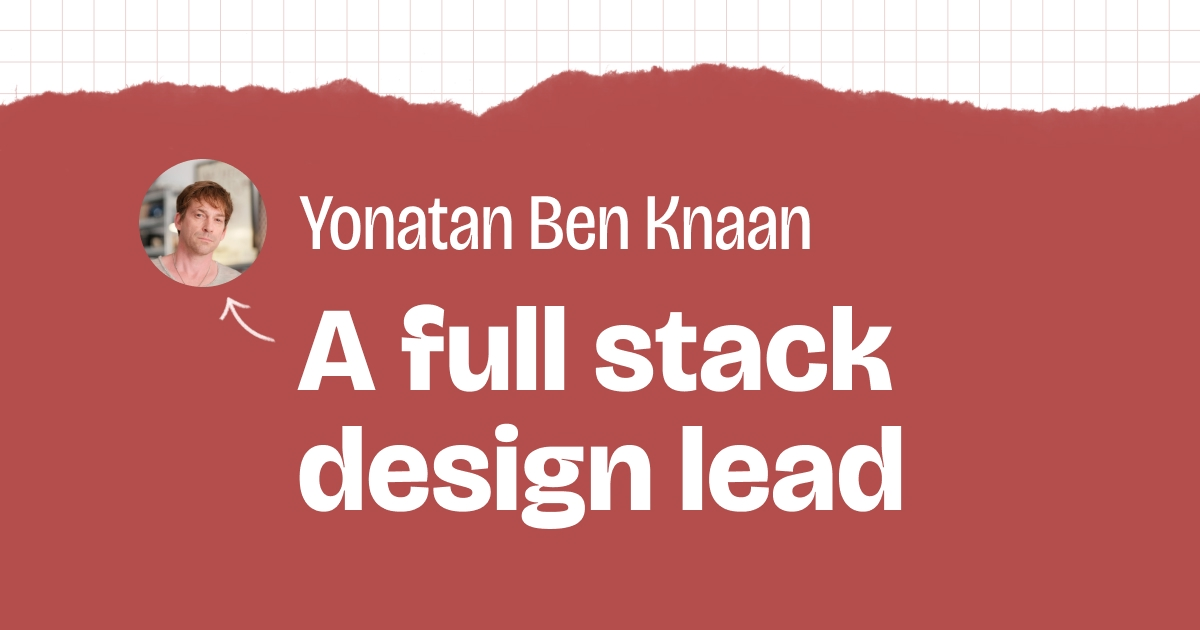
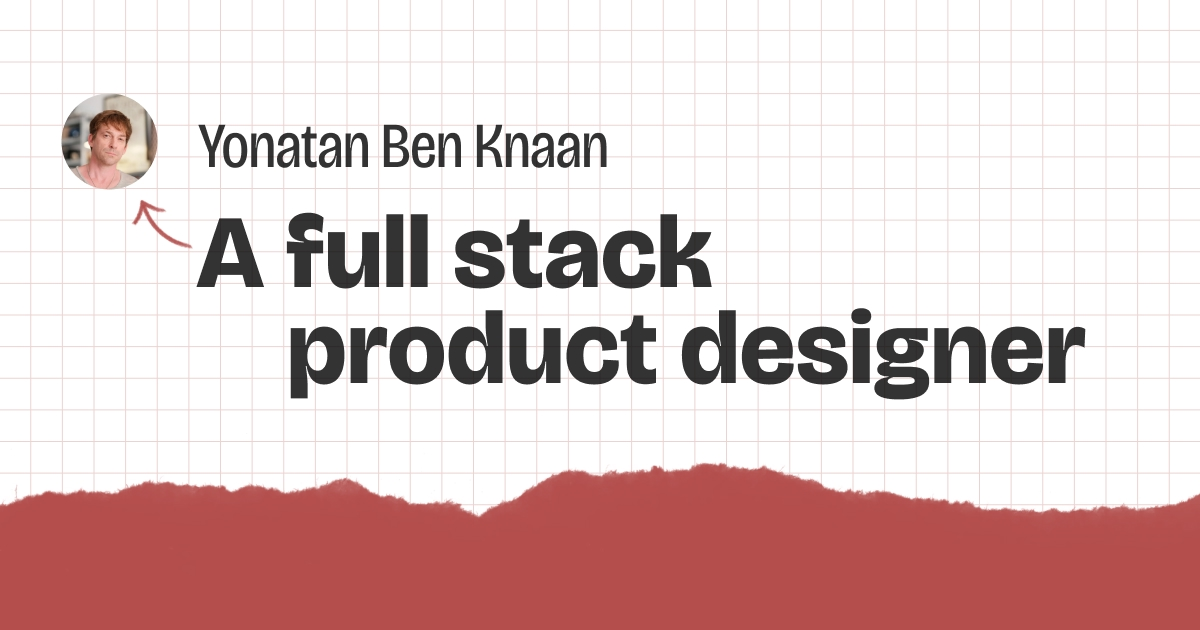
improve: Better meta tags and new social share image. at nuxt.config.ts, page-meta-tags.ts & yonatanbk-Social.jpg

diff --git a/plugins/page-meta-tags.ts b/plugins/page-meta-tags.ts
@@ -12,7 +12,7 @@ export default defineNuxtPlugin(() => {
 		metaSiteName = config.public.siteName,
 		// metaArticleAuthor = undefined,
 		metaTitleData = undefined,
-		metaDesc = `A portfolio site by ${config.public.siteOwnerName} - a full stack designer who leads design initiatives in Startups and Orgs`,
+		metaDesc = `A portfolio site by ${config.public.siteOwnerName} - a full stack product designer who leads design initiatives in startups and orgs`,
 		metaImg = '/images/yonatanbk-social.jpg',
 		metaImgAlt = 'Social cover image for this site',
 		metaOgType = 'website' as
@@ -43,10 +43,6 @@ export default defineNuxtPlugin(() => {
 			titleTemplate: (titleChunk) => {
 				return titleChunk ? `${titleChunk} - ` + metaTitle : metaTitle;
 			},
-			meta: [
-				{ name: 'description', content: 'My amazing site.' },
-				{ name: 'description', content: 'My amazing site.' },
-			],
 			htmlAttrs: { lang: 'en' },
 			link: [
 				{
@@ -63,7 +59,7 @@ export default defineNuxtPlugin(() => {
 		useSeoMeta({
 			author: metaAuthor,
 			description: () => metaDesc,
-			keywords: 'design, ux, ui, full stack design, developer, branding, design lead, product design, startup, org, yonatan ben knaan',
+			keywords: 'design, ux, ui, full stack, full-stack product design, developer, design lead, product design, startup, org, yonatan ben knaan',
 			// articleAuthor: metaArticleAuthor,
 			articlePublishedTime: metaPublishedTime,
 			articleModifiedTime: metaModifiedTime,

diff --git a/nuxt.config.ts b/nuxt.config.ts
@@ -1,6 +1,6 @@
 const siteOwnerNameHere = 'Yonatan Ben Knaan';
 const baseUrlHere = process.env.DEPLOY_PRIME_URL;
-const SiteNameHere = 'A Full Stack Design Lead';
+const SiteNameHere = 'A full stack product designer';
 
 // https://nuxt.com/docs/api/configuration/nuxt-config
 export default defineNuxtConfig({
